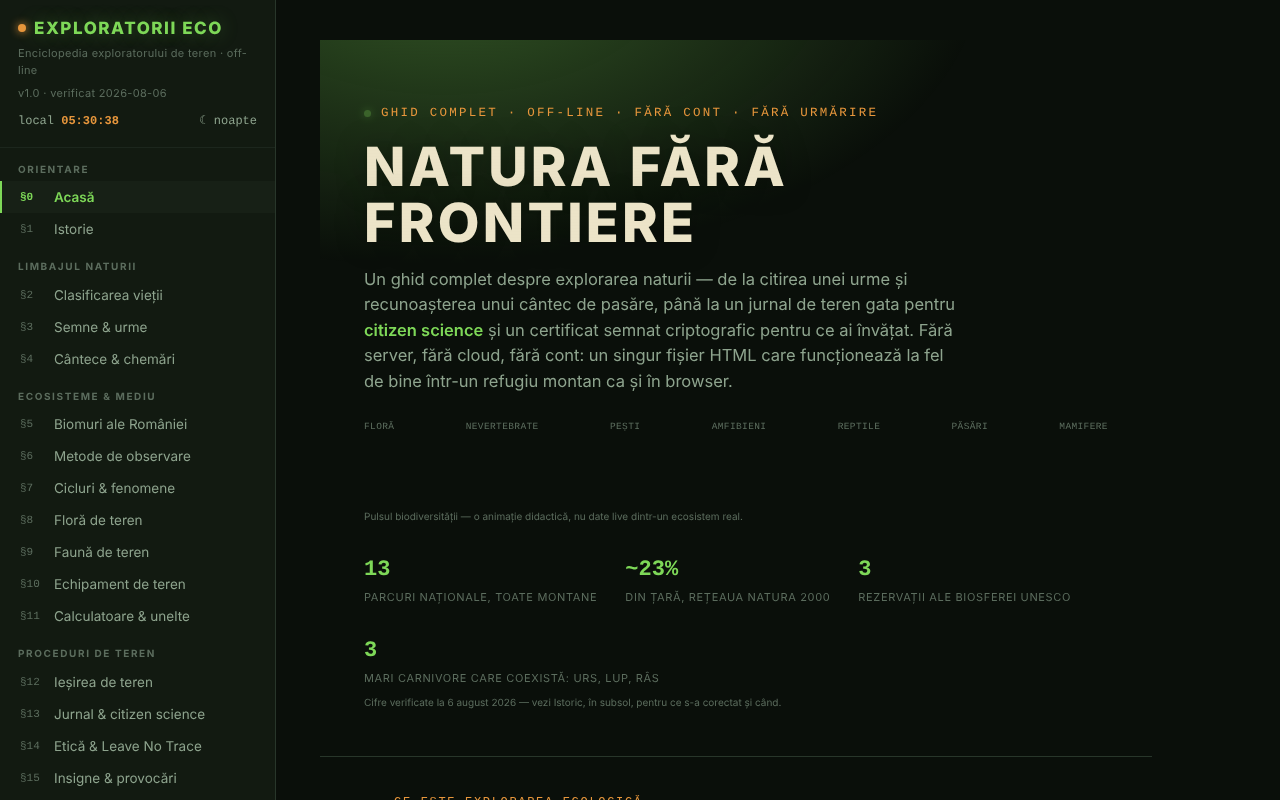
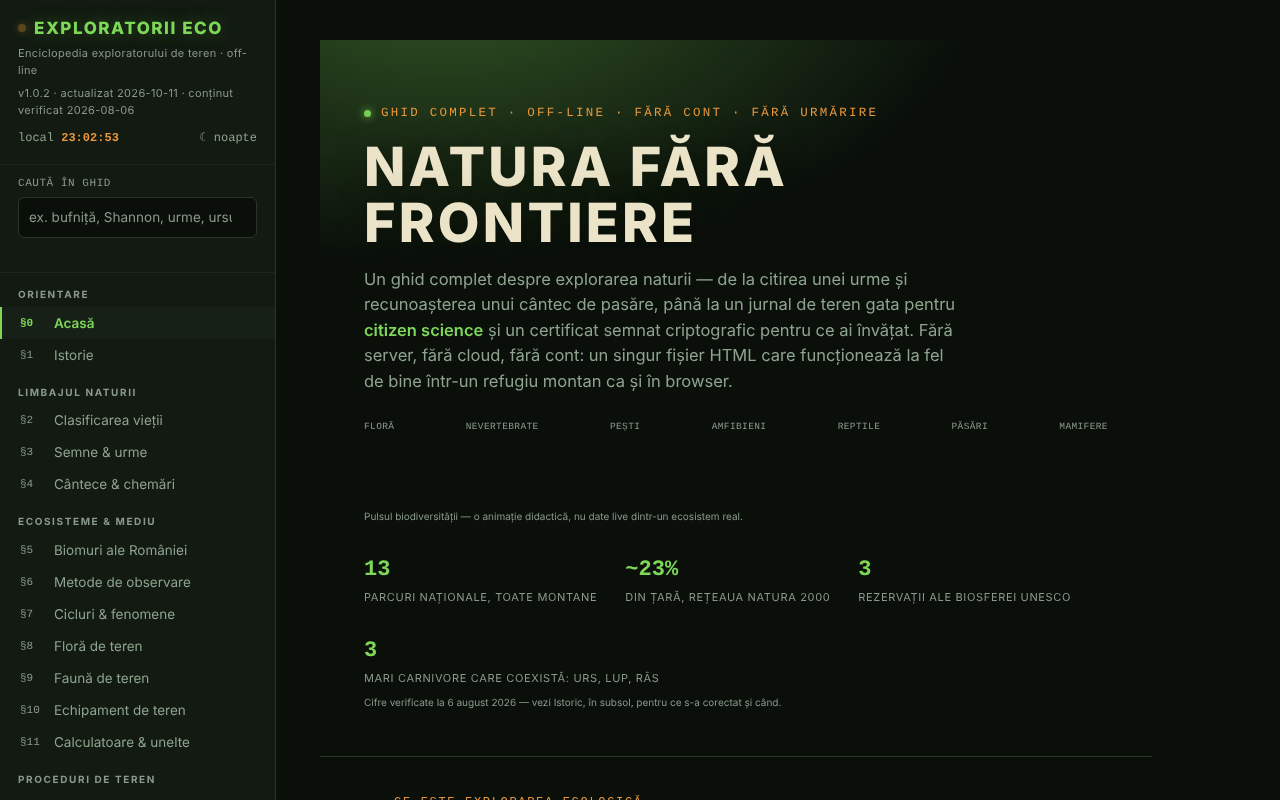
Runda 6 (11 octombrie 2026): reparații și îmbunătățiri
Claude-Session: https://claude.ai/code/session_01D2sCEb3hy3nutYexhUfQFs

diff --git a/index.html b/index.html
@@ -3,7 +3,7 @@
 <head>
 <meta charset="UTF-8">
 <meta name="viewport" content="width=device-width, initial-scale=1.0">
-<meta http-equiv="Content-Security-Policy" content="default-src 'none'; script-src 'sha256-BnPjQHLjQBiLBlWiA97jSit+oWTgl+awf0jirTCk09I='; style-src 'unsafe-inline'; img-src data: blob:; media-src data: blob:; font-src data:; connect-src 'self'; base-uri 'none'; form-action 'none'; frame-src 'none'; object-src 'none'; worker-src 'none'; manifest-src 'none'">
+<meta http-equiv="Content-Security-Policy" content="default-src 'none'; script-src 'sha256-+uu2QPn45LoGG/iIRhTaOt5YwC8o7qf1mKnJQFneULg='; style-src 'unsafe-inline'; img-src data: blob:; media-src data: blob:; font-src data:; connect-src 'self'; base-uri 'none'; form-action 'none'; frame-src 'none'; object-src 'none'; worker-src 'none'; manifest-src 'none'">
 <title>EXPLORATORII ECO — Enciclopedia exploratorului de teren</title>
 <meta name="description" content="Ghid complet, off-line, despre explorarea naturii: taxonomie, urme și semne, biomurile României, metode de observare, jurnal de teren, arii protejate și multe altele.">
 <style>
@@ -414,7 +414,14 @@ footer a:hover{color:var(--verde);}
 footer .legal{margin-top:26px;padding-top:16px;border-top:1px solid var(--line-soft);font-size:11.5px;color:var(--ink-faint);}
 @media (max-width:720px){footer .fgrid{grid-template-columns:1fr;}}
 
+/* Runda 6: căutare în ghid */
+.navsearch{padding:0 18px 12px;border-bottom:1px solid var(--line-soft);margin-bottom:10px;}
+.navsearch input{width:100%;background:var(--bg);color:var(--ink);border:1px solid var(--line);border-radius:6px;padding:9px 10px;font:inherit;font-size:13.5px;}
+.navsearch input::placeholder{color:var(--ink-faint);}
+.navq-status{font-size:12px;color:var(--ink-dim);min-height:16px;margin-top:6px;}
+.nq-hide{display:none !important;}
 @media print{
+  .navsearch{display:none !important;}
   .topbar,.sidebar,.scrim,footer,.btn,.btnrow,#waterfall,.hero-stats,.lamp,#compassWrap,input,.searchbox,.chip,.quiz-opt,.quiz-explain,button{display:none !important;}
   html,body{background:#fff !important;}
   .shell{display:block !important;}
@@ -461,8 +468,14 @@ kbd{font-family:var(--font-mono);background:var(--panel-2);border:1px solid var(
   <div class="brandblock">
     <div class="brand"><span class="dot"></span> EXPLORATORII ECO</div>
     <div class="tagline">Enciclopedia exploratorului de teren · off-line</div>
-    <div class="tagline">v1.0.1 · actualizat 2026-10-11 · conținut verificat 2026-08-06</div>
+    <div class="tagline">v1.0.2 · actualizat 2026-10-11 · conținut verificat 2026-08-06</div>
     <div class="clock"><span>local <b id="localClock2">--:--</b></span><span id="sunClock">☀ --:--</span></div>
+  </div>
+
+  <div class="navsearch" role="search">
+    <label for="navq" class="navlabel" style="display:block">Caută în ghid</label>
+    <input id="navq" type="search" placeholder="ex. bufniță, Shannon, urme, ursul" autocomplete="off" enterkeyhint="search">
+    <div class="navq-status" id="navqStatus" role="status" aria-live="polite"></div>
   </div>
 
   <div class="navgroup">
@@ -1443,7 +1456,7 @@ kbd{font-family:var(--font-mono);background:var(--panel-2);border:1px solid var(
     </div>
   </div>
   <div style="margin-top:18px;font-size:11.5px;color:var(--ink-faint);line-height:1.7;">
-    <b style="color:var(--ink-dim);">Istoric</b> — <span style="font-family:var(--font-mono);">v1.0.1</span> (2026-10-11): calculatorul Shannon–Wiener pornește cu un exemplu calculat, etichetele din hero se împachetează pe mobil, repere și titluri accesibile, politică CSP. <span style="font-family:var(--font-mono);">v1.0</span> (2026-08-06): versiune inițială — 20 de secțiuni, jurnal de teren, indice de biodiversitate, identitate criptografică locală și certificate semnate, antrenor de chemări, calculatoare de mediu, glosar A–Z. Construită după modelul ETER (chiuta.github.io/eter), aceeași arhitectură off-line, recontextualizată pentru explorarea naturii.
+    <b style="color:var(--ink-dim);">Istoric</b> — <span style="font-family:var(--font-mono);">v1.0.2</span> (2026-10-11): căutare în tot ghidul, avertizare la părăsirea paginii cu observații neexportate, tema inițială urmează preferința sistemului. <span style="font-family:var(--font-mono);">v1.0.1</span> (2026-10-11): calculatorul Shannon–Wiener pornește cu un exemplu calculat, etichetele din hero se împachetează pe mobil, repere și titluri accesibile, politică CSP. <span style="font-family:var(--font-mono);">v1.0</span> (2026-08-06): versiune inițială — 20 de secțiuni, jurnal de teren, indice de biodiversitate, identitate criptografică locală și certificate semnate, antrenor de chemări, calculatoare de mediu, glosar A–Z. Construită după modelul ETER (chiuta.github.io/eter), aceeași arhitectură off-line, recontextualizată pentru explorarea naturii.
   </div>
   <div class="legal">
     Conținut educațional, verificat la 2026-08-06 (v1.0 de mai sus) — dar regulamentele și denumirile instituțiilor se schimbă. Pentru orice decizie care contează (acces în arii protejate, specii strict protejate, proceduri de urgență), <b>ANMAP</b> și <b>Salvamont România</b> rămân sursele autoritare, nu acest fișier. Informațiile despre urgențe, șerpi, căpușe, ciuperci și plante sunt orientative: nu înlocuiesc un curs de prim ajutor sau sfatul medical (în urgență: 112), iar plantele și ciupercile nu se consumă pe baza acestui ghid. Fără cookie-uri, fără analytics, fără apeluri către niciun server (singura excepție, doar la cerere: butonul „Verifică integritatea fișierului” re-citește acest fișier de la adresa de unde e servit) — tot ce vezi rulează local, în browserul tău.
@@ -2315,6 +2328,9 @@ function updateFenoSim(){
    Jurnal de teren — în memorie, export/import JSON
    ============================================================ */
 var journalEntries = [];
+var journalSavedSig = '[]';   /* starea la ultimul export; jurnalul nu se păstrează în browser */
+function journalDirty(){ return journalEntries.length>0 && JSON.stringify(journalEntries)!==journalSavedSig; }
+window.addEventListener('beforeunload', function(e){ if(journalDirty()){ e.preventDefault(); e.returnValue=''; } });
 function renderJournal(){
   var list = $('#jList');
   if(!list) return;
@@ -2337,7 +2353,7 @@ function renderJournalStats(){
   if(!journalEntries.length){ el.textContent=''; return; }
   var species = {};
   journalEntries.forEach(function(e){ if(e.specie) species[fold(e.specie)]=true; });
-  el.textContent = journalEntries.length+' observații · '+Object.keys(species).length+' specii unice';
+  el.textContent = journalEntries.length+' observații · '+Object.keys(species).length+' specii unice'+(journalDirty() ? ' · neexportat — se pierde la reîncărcarea paginii' : ' · exportat');
 }
 function addJournalEntry(){
   var specie = $('#jSpecies').value.trim();
@@ -2356,7 +2372,7 @@ function addJournalEntry(){
   renderJournal(); renderJournalStats(); renderBadges();
 }
 function journalBlob(){ return {tip:'exploratorii-eco-jurnal', versiune:1, generat:new Date().toISOString(), observatii:journalEntries}; }
-function exportJournal(){ downloadJSON(journalBlob(), 'jurnal-teren-exploratorii-eco.json'); $('#jStatus').textContent='Exportat.'; }
+function exportJournal(){ downloadJSON(journalBlob(), 'jurnal-teren-exploratorii-eco.json'); journalSavedSig = JSON.stringify(journalEntries); $('#jStatus').textContent='Exportat.'; renderJournalStats(); }
 async function shareJournalFile(){
   try{
     var blob = new Blob([JSON.stringify(journalBlob(),null,2)], {type:'application/json'});
@@ -2833,7 +2849,7 @@ function updateReportLink(sectionEl){
 }
 async function copyReportInfo(){
   var active = $('.section.active h2');
-  var txt = 'Exploratorii Eco v1.0.1 — secțiune: '+(active?active.textContent:'necunoscută')+' — '+navigator.userAgent;
+  var txt = 'Exploratorii Eco v1.0.2 — secțiune: '+(active?active.textContent:'necunoscută')+' — '+navigator.userAgent;
   try{
     await navigator.clipboard.writeText(txt);
     var btn = $('#reportCopyBtn'); var orig = btn.textContent;
@@ -2859,6 +2875,53 @@ function initNav(){
   });
   var first = document.querySelector('.navlink[data-sec="acasa"]');
   if(first){ first.classList.add('active'); updateReportLink($('#sec-acasa')); }
+  initNavSearch();
+}
+/* Căutare în tot ghidul (text integral al secțiunilor, fără diacritice, local). Enter deschide cea mai potrivită secțiune. */
+function normQ(t){ return String(t||'').normalize('NFD').replace(/[\u0300-\u036f]/g,'').toLowerCase().replace(/\s+/g,' ').trim(); }
+function initNavSearch(){
+  var inp = $('#navq'), st = $('#navqStatus');
+  var A = function(sel, el){ return Array.prototype.slice.call((el||document).querySelectorAll(sel)); };
+  if(!inp) return;
+  var idx = null;
+  function build(){
+    idx = A('.navlink').map(function(b){
+      var sec = document.getElementById('sec-'+b.dataset.sec);
+      return { btn:b, title:normQ(b.textContent), body: sec ? normQ(sec.textContent) : '' };
+    });
+  }
+  function run(){
+    var q = normQ(inp.value);
+    if(!idx) build();
+    var words = q ? q.split(' ') : [];
+    var n = 0;
+    idx.forEach(function(it){
+      var hay = it.title+' '+it.body;
+      var hit = !words.length || words.every(function(w){ return hay.indexOf(w)!==-1; });
+      it.btn.classList.toggle('nq-hide', !hit);
+      if(hit) n++;
+    });
+    A('.navgroup').forEach(function(g){
+      var any = A('.navlink', g).some(function(b){ return !b.classList.contains('nq-hide'); });
+      g.classList.toggle('nq-hide', !any);
+    });
+    st.textContent = !q ? '' : (n ? (n===1 ? '1 secțiune găsită' : n+' secțiuni găsite')+' · Enter deschide cea mai potrivită' : 'Nicio secțiune nu conține „'+inp.value.trim()+'”');
+  }
+  inp.addEventListener('input', run);
+  inp.addEventListener('keydown', function(e){
+    if(e.key==='Enter'){
+      var q = normQ(inp.value), ws = q.split(' ');
+      var vis = idx ? idx.filter(function(it){ return !it.btn.classList.contains('nq-hide'); }) : [];
+      var best = null, bs = -1;   /* cea mai potrivită: titlu (+1000), apoi numărul de apariții */
+      vis.forEach(function(it){
+        var sc = ws.every(function(w){ return it.title.indexOf(w)!==-1; }) ? 1000 : 0;
+        ws.forEach(function(w){ sc += it.body.split(w).length-1; });
+        if(it.btn.dataset.sec==='acasa') sc -= 0.5;   /* la egalitate, nu prima pagină */
+        if(sc>bs){ bs = sc; best = it; }
+      });
+      if(best && q){ e.preventDefault(); best.btn.click(); }
+    } else if(e.key==='Escape' && inp.value){ inp.value=''; run(); }
+  });
 }
 function openDrawer(){ $('#sidebar').classList.add('open'); $('#scrim').classList.add('show'); $('#drawerBtn').setAttribute('aria-expanded','true'); }
 function closeDrawer(){ $('#sidebar').classList.remove('open'); $('#scrim').classList.remove('show'); $('#drawerBtn').setAttribute('aria-expanded','false'); }
@@ -2880,7 +2943,10 @@ function initTheme(){
   $('#themeBtnMobile').addEventListener('click', function(){
     setTheme(document.documentElement.getAttribute('data-theme')==='zi' ? 'noapte' : 'zi');
   });
-  setTheme('noapte');
+  /* Respectă preferința sistemului (lumină) la prima afișare. */
+  var light = false;
+  try{ light = !!(window.matchMedia && window.matchMedia('(prefers-color-scheme: light)').matches); }catch(e){}
+  setTheme(light ? 'zi' : 'noapte');
 }
 function tickClocks(){
   var now = new Date();

diff --git a/README.md b/README.md
@@ -12,10 +12,11 @@ Un ghid complet pentru explorarea naturii, în 20 de secțiuni (§0–§19): cla
 
 ## Funcții
 
-- Navigare pe secțiuni din meniul lateral (☰ pe mobil); temă **Noapte / Zi** (butoanele ☾ / ☀).
+- Navigare pe secțiuni din meniul lateral (☰ pe mobil); temă **Noapte / Zi** (butoanele ☾ / ☀; la prima deschidere urmează preferința sistemului).
+- **Căutare în ghid** (meniul lateral): caută în textul integral al celor 20 de secțiuni, fără diacritice (ex. „bufnita”, „Shannon”); filtrează meniul, Enter deschide secțiunea cea mai potrivită, Esc golește câmpul.
 - **Calculatoare și unelte** (§11): indice de biodiversitate Shannon–Wiener, locator Maidenhead, azimut și distanță spre o țintă (cu busolă live, dacă dispozitivul o permite), răcirea aerului cu altitudinea, amprenta de carbon a unei deplasări, sechestrare de carbon pentru copaci. Calculele se fac local, în pagină.
 - **Antrenor de chemări** (§4): tonuri sintetizate (nu înregistrări reale) pentru recunoașterea unor tipare, plus citirea cu voce a denumirii onomatopeice prin sinteza vocală a browserului, dacă este disponibilă.
-- **Jurnal de teren** (§13): adaugi observații (specie, număr, dată, oră, loc, comportament, note), cu completare a locului din GPS la cerere; export și import `.json`, partajare ca fișier.
+- **Jurnal de teren** (§13): adaugi observații (specie, număr, dată, oră, loc, comportament, note), cu completare a locului din GPS la cerere; export și import `.json`, partajare ca fișier. Contorul arată „neexportat” până la export, iar la părăsirea paginii cu observații neexportate browserul cere confirmare (jurnalul nu se păstrează în browser).
 - **Test de cunoștințe** (§18): mod aleator sau pe categorii, scor, progres pe categorii cu export/import.
 - **Identitate locală și certificate**: generare de cheie ECDSA P-256 în browser, certificat auto-semnat al categoriilor stăpânite (minimum 80% corect și 5 întrebări pe categorie), verificare, „martor”, revocare. Nu este o diplomă oficială.
 - **Glosar A–Z** cu căutare și notițe proprii (export/import).
@@ -57,8 +58,9 @@ Audit: 2026-10-10 — verificat cu Playwright și axe-core (toate cele 20 de sec
 
 ## Istoric / Changelog
 
-Ultima actualizare: 11 octombrie 2026 — v1.0.1 (în aplicație; conținutul factual verificat ultima dată la 2026-08-06; reorganizarea ANANP → ANMAP reconfirmată prin căutare web la 11.10.2026).
-- Calculatorul Shannon–Wiener pornește cu un exemplu precompletat (fag, brad, molid, carpen, paltin) și afișează H′ de la început.
+Ultima actualizare: 11 octombrie 2026 — v1.0.2 (în aplicație; conținutul factual verificat ultima dată la 2026-08-06; reorganizarea ANANP → ANMAP reconfirmată prin căutare web la 11.10.2026).
+- v1.0.2: căutare în tot ghidul; avertizare la părăsirea paginii cu observații neexportate (+ indicator „neexportat/exportat” în jurnal); tema inițială urmează `prefers-color-scheme`. Hash-ul CSP recalculat; axe-core = 0 violări la 1280 și 360 px, în ambele teme.
+- v1.0.1: calculatorul Shannon–Wiener pornește cu un exemplu precompletat (fag, brad, molid, carpen, paltin) și afișează H′ de la început.
 - Bara de categorii din hero se împachetează pe mobil (nu se mai lipesc etichetele); marginile paginii de start sunt reduse la 20 px pe ecrane înguste.
 - Bara de sus este `<header>`, titlurile din subsol h2; politică CSP adăugată (`connect-src 'self'` pentru verificarea integrității). axe-core = 0 violări la 1280 și 360 px.
 
